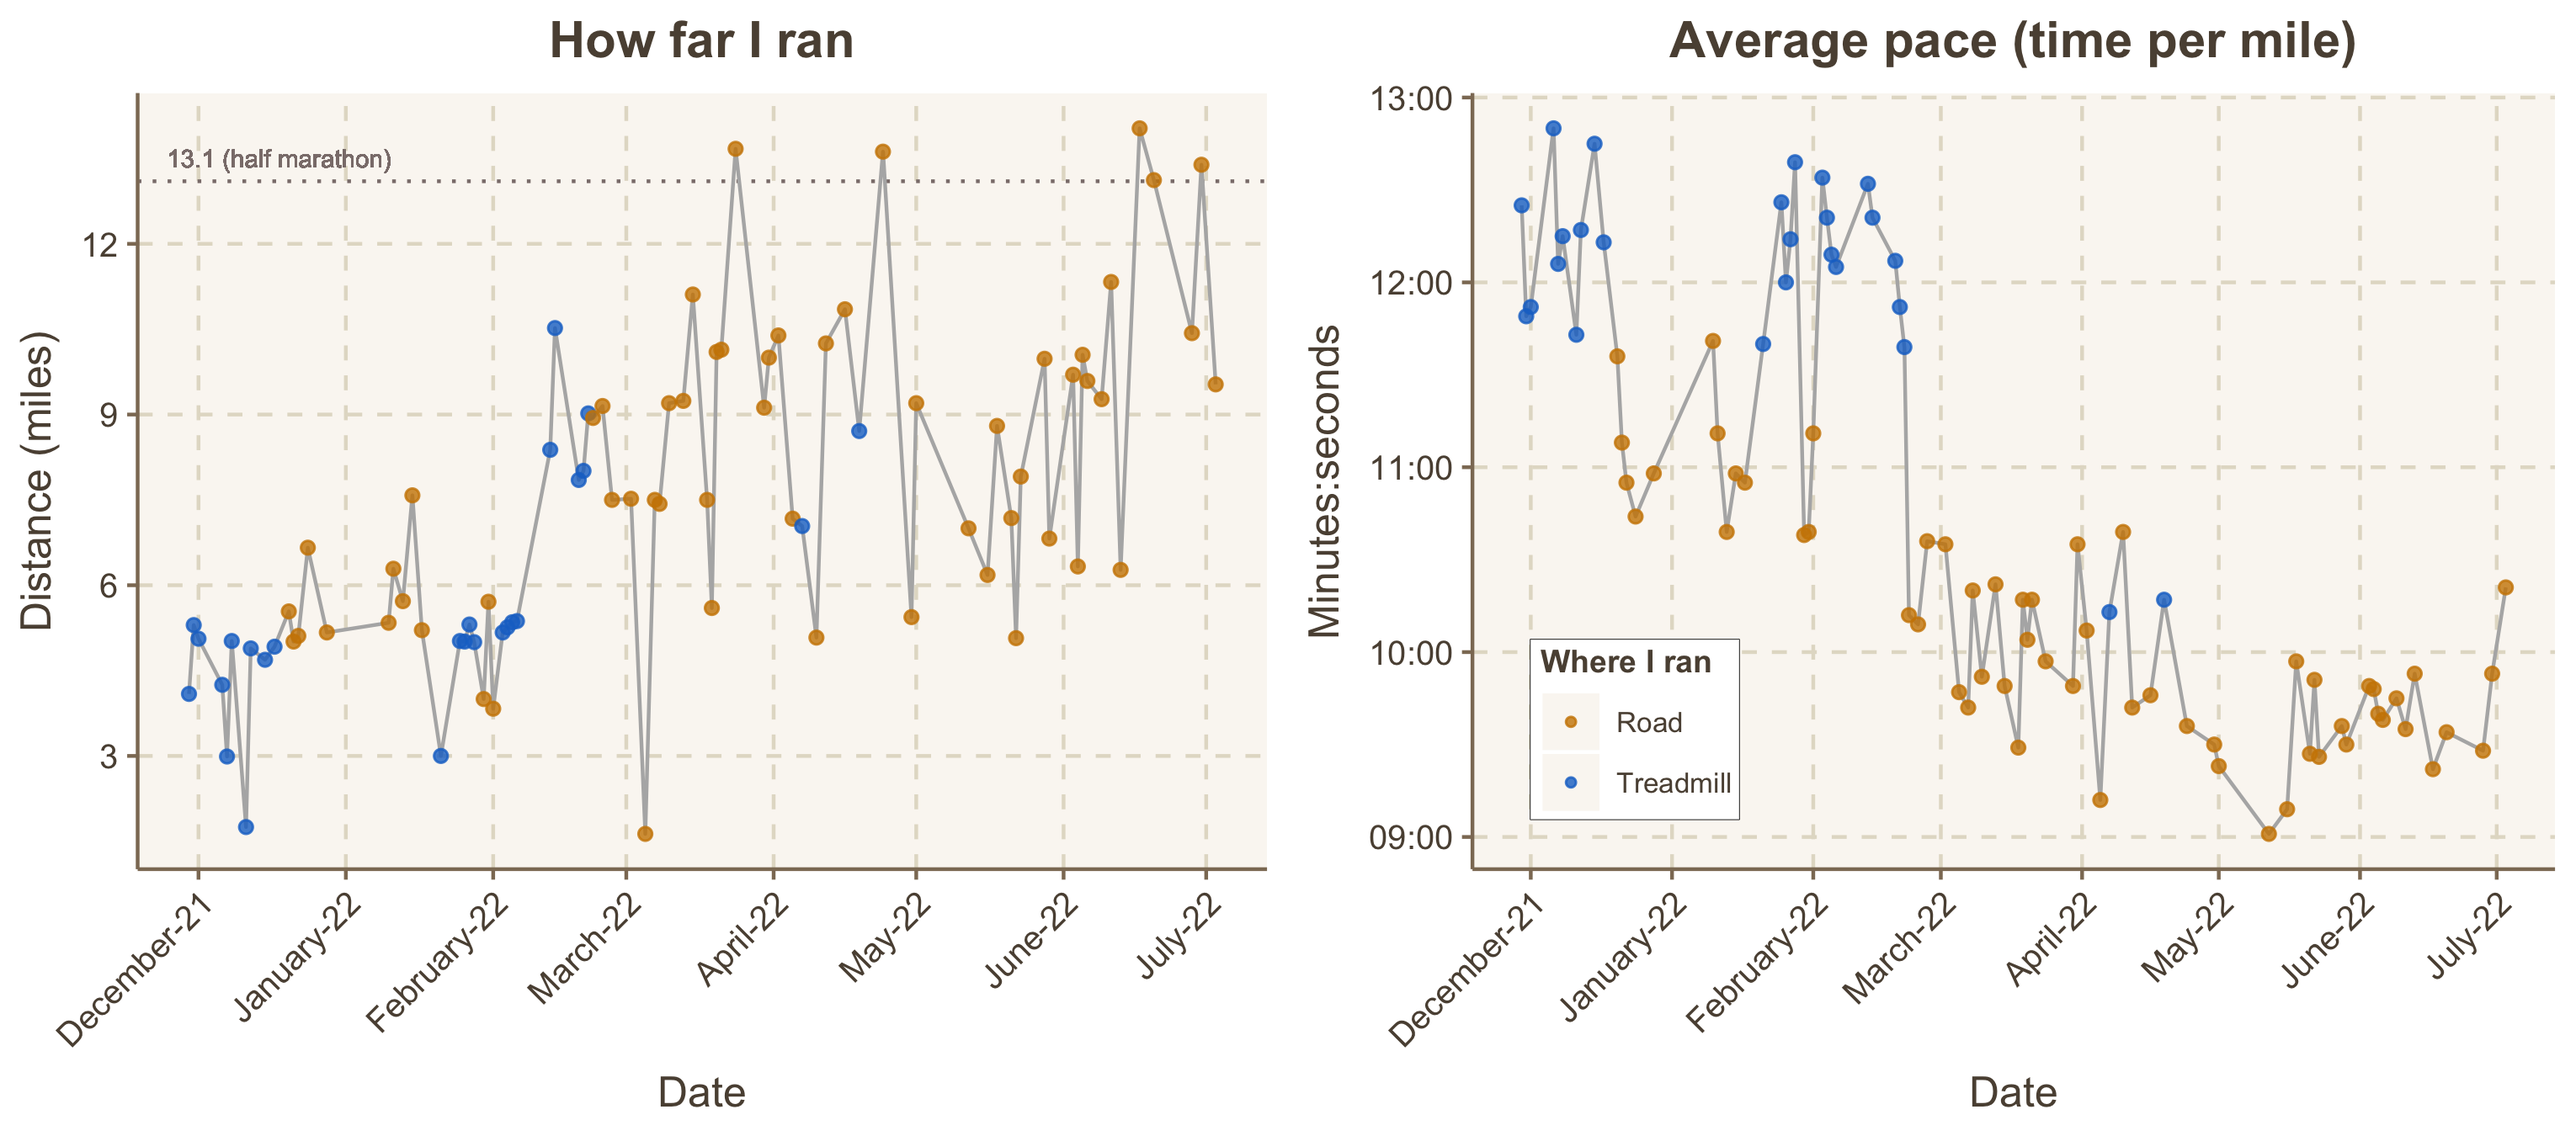
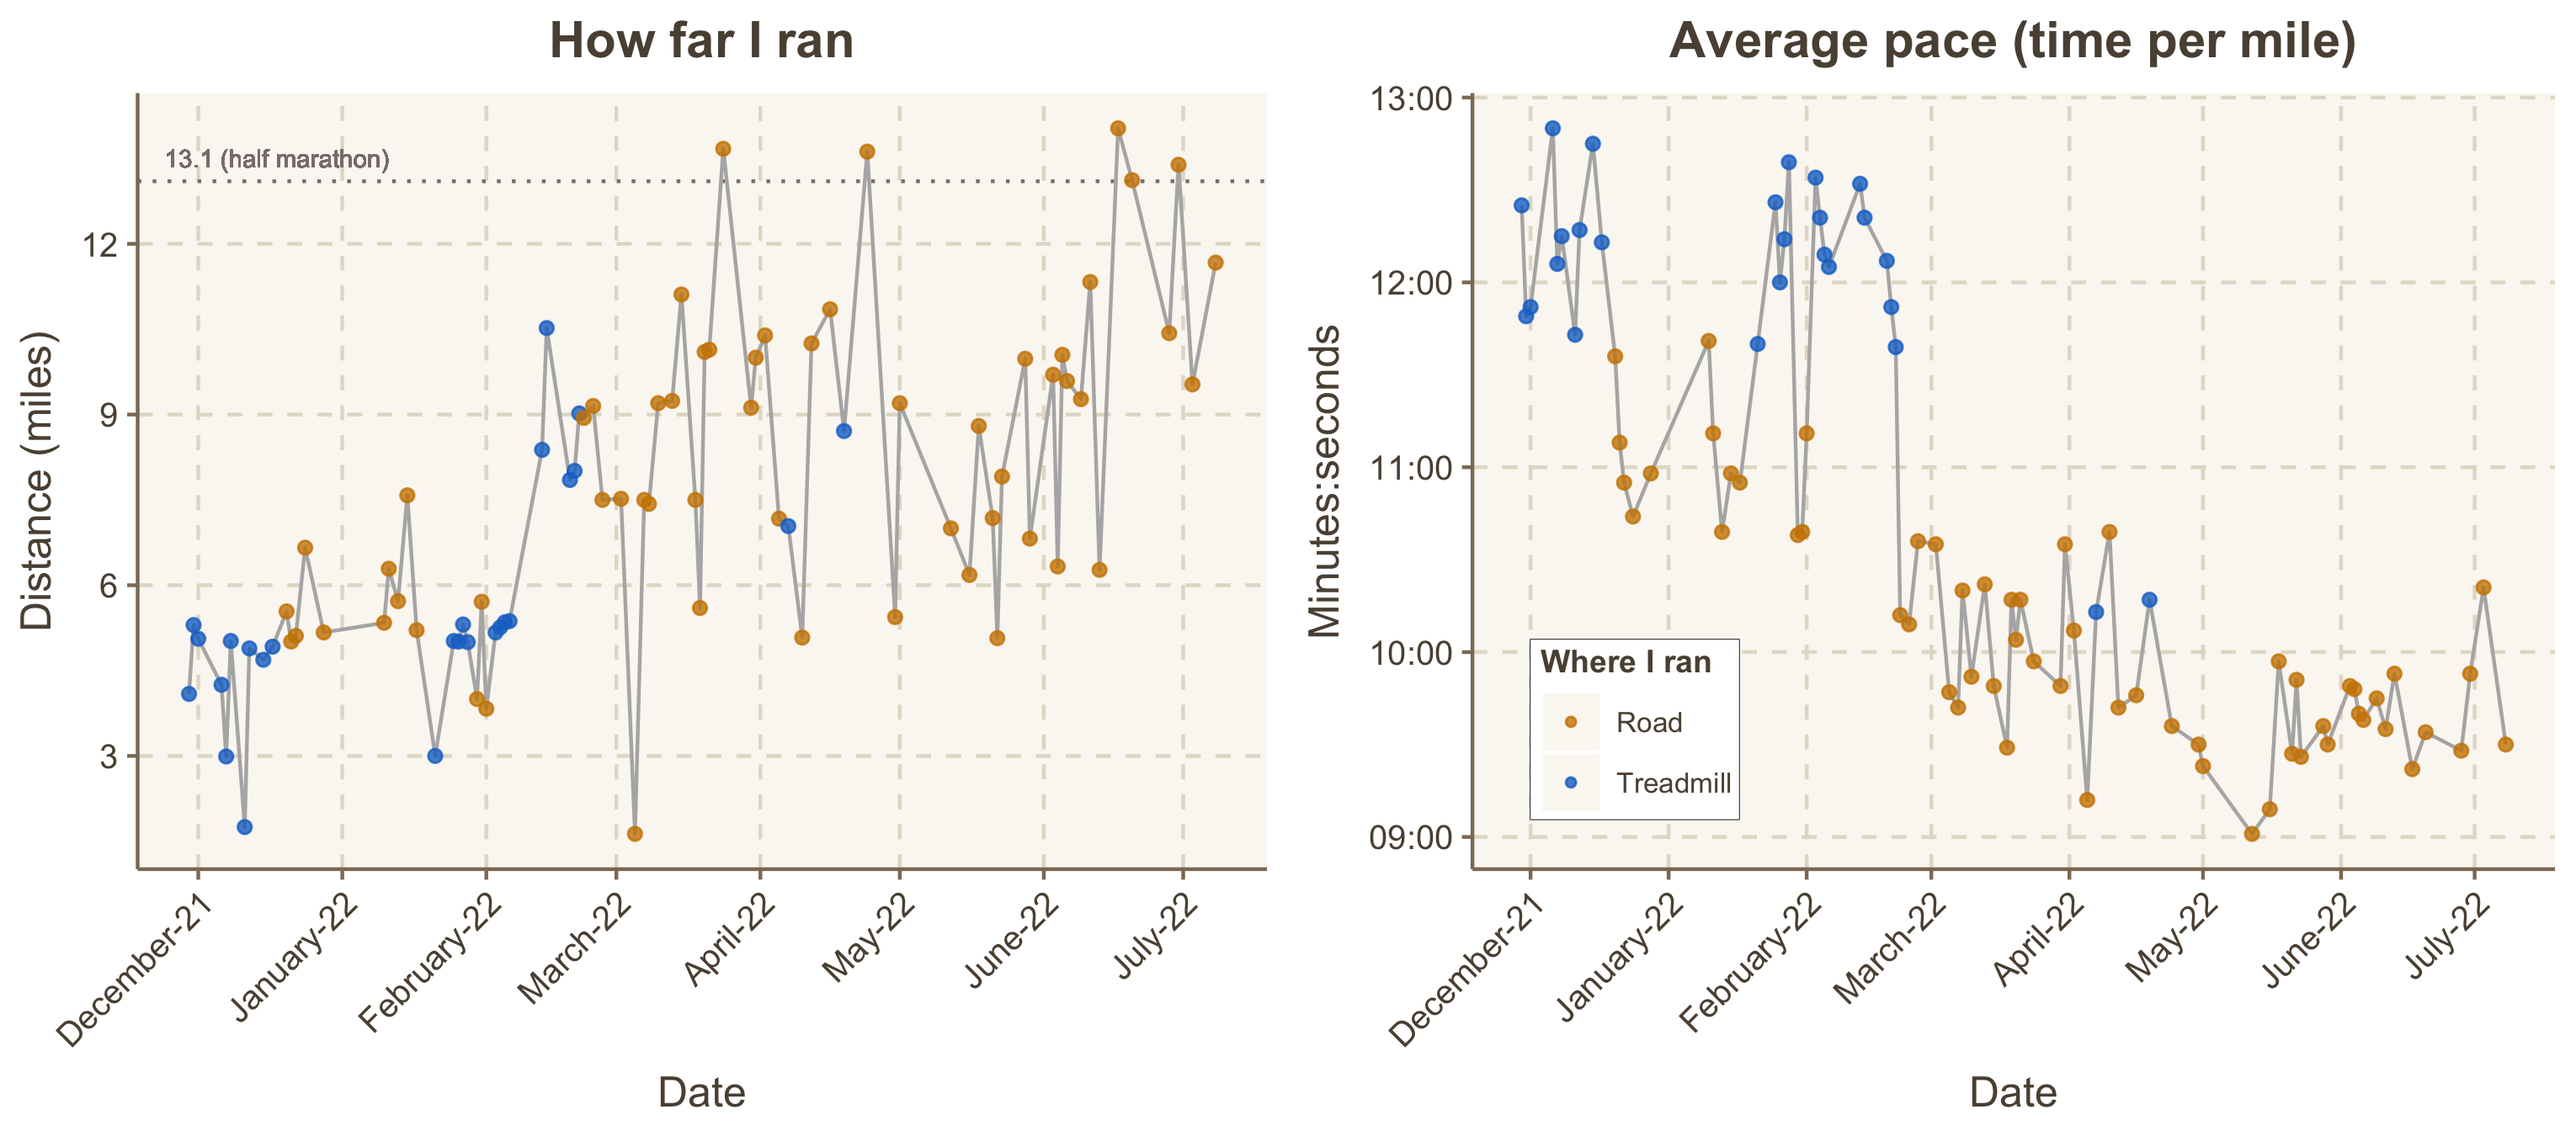
7/9/22

diff --git a/README.md b/README.md
@@ -25,7 +25,7 @@ ggarrange(p1, p2, nrow=1)
 sum(runningData$Miles)
 ```
 
-    ## [1] 617.48
+    ## [1] 629.15
 
 Average distance during the last 10 runs:
 
@@ -33,4 +33,4 @@ Average distance during the last 10 runs:
 mean(tail(runningData$Miles, 10))
 ```
 
-    ## [1] 10.701
+    ## [1] 10.863
